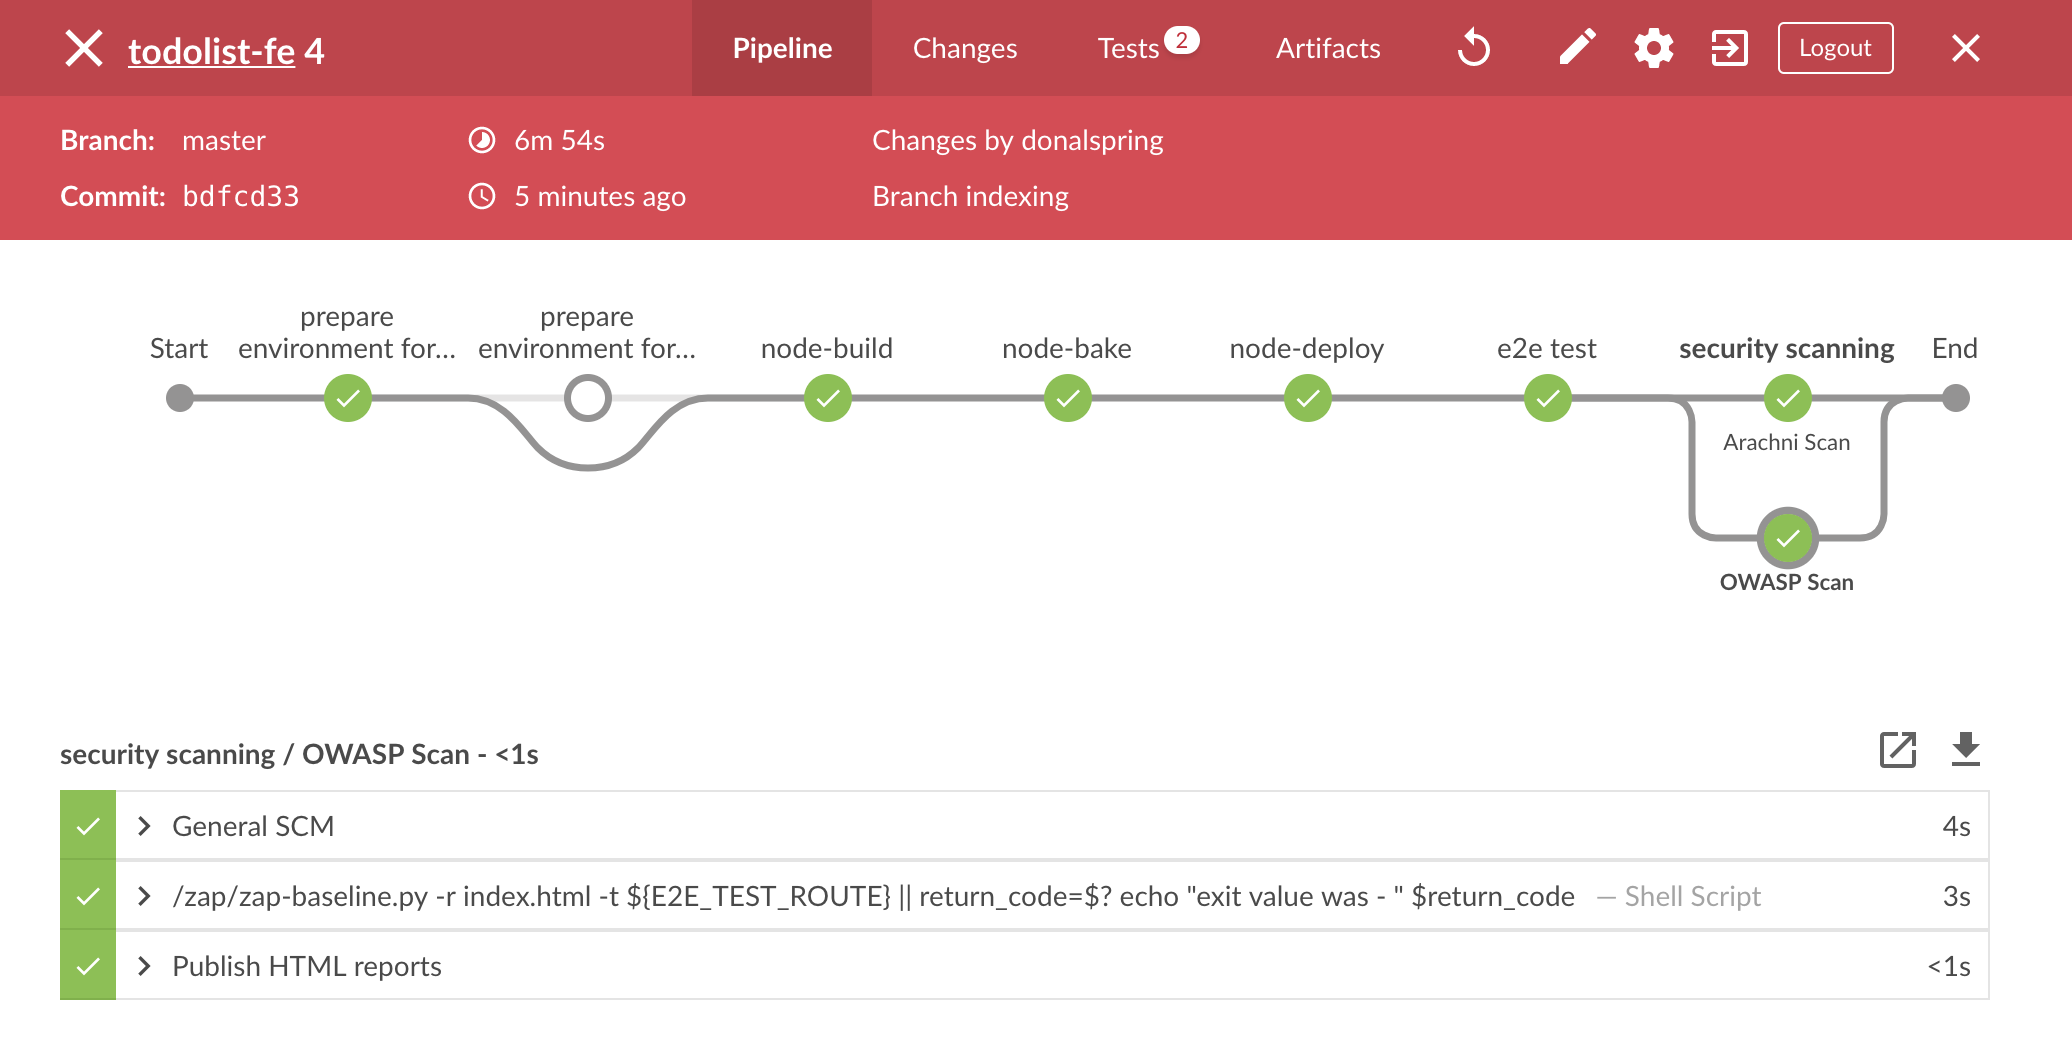
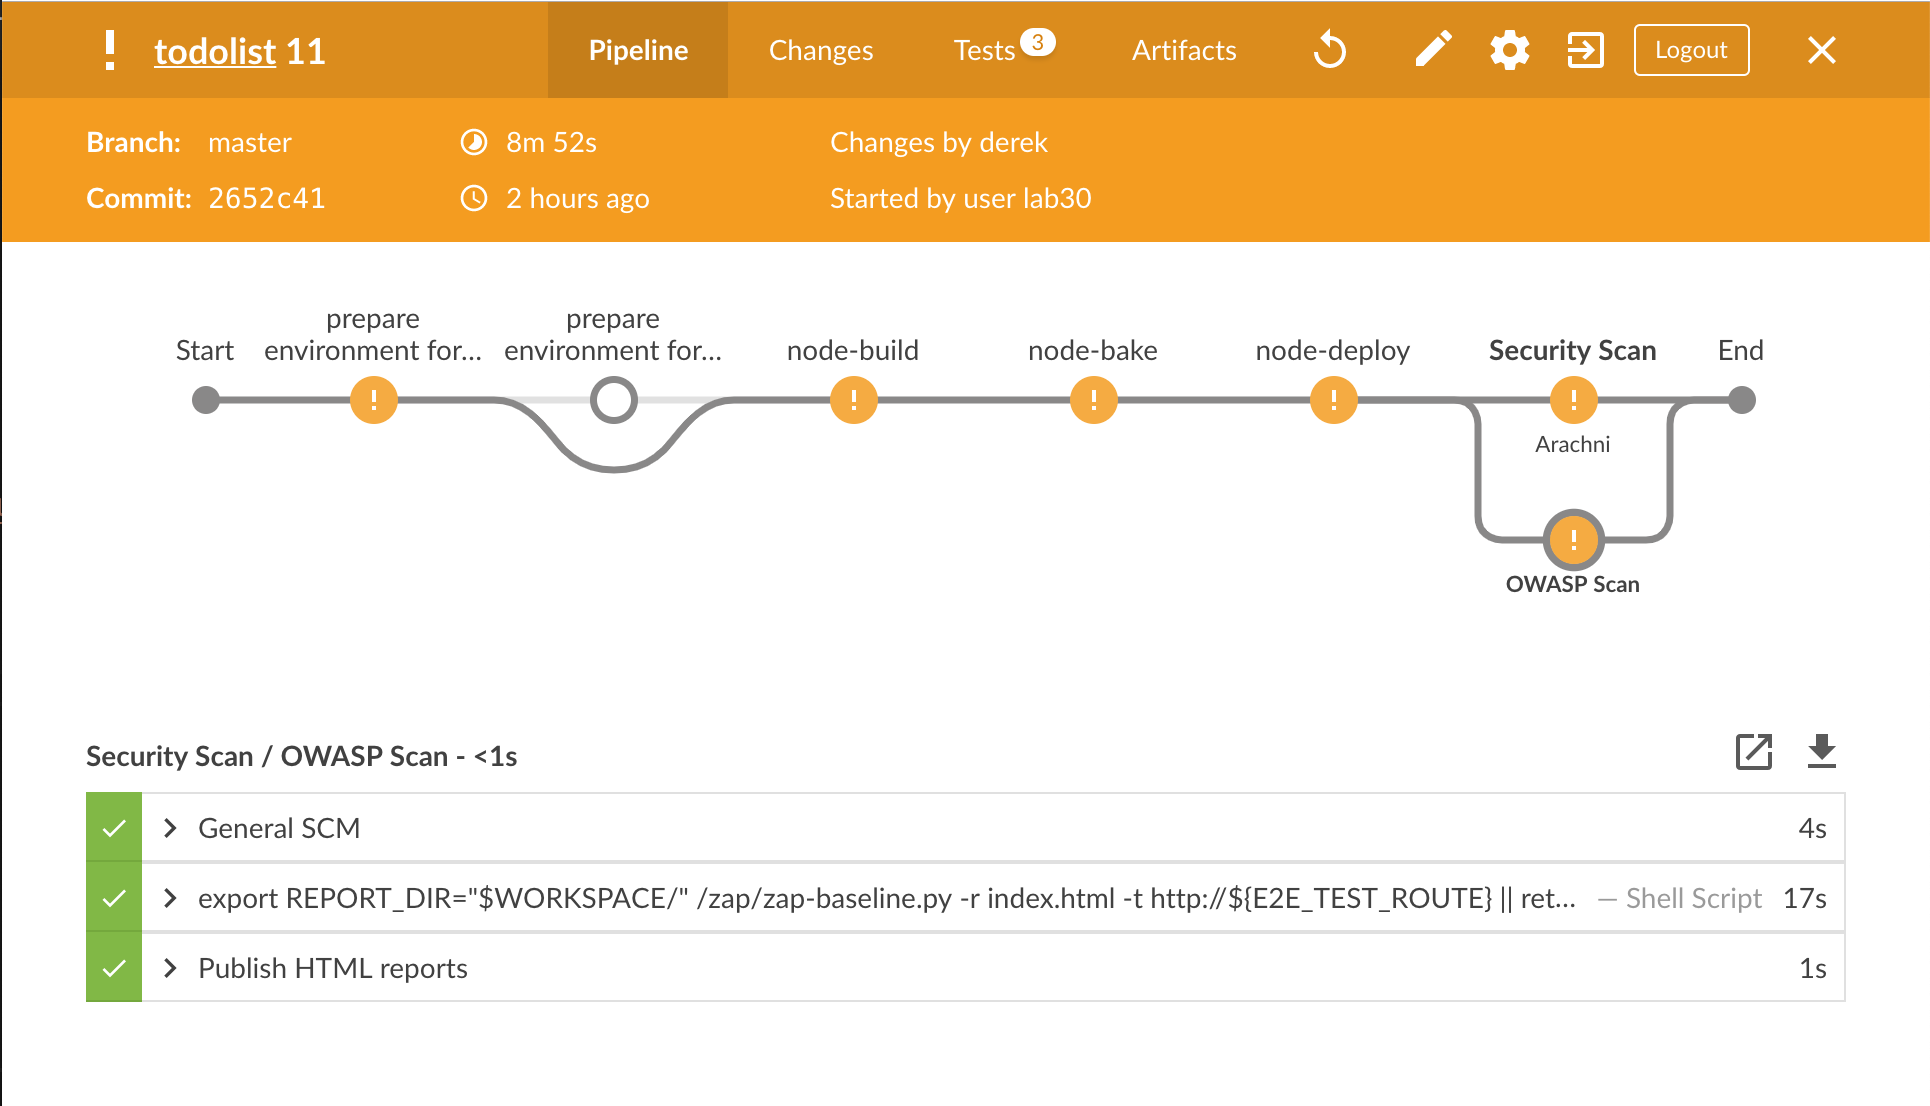
🦊 FIX - exercise 5 to include ZAP and make final part optional 🦊

diff --git a/exercises/5-non-functionals-strike-back/README.md b/exercises/5-non-functionals-strike-back/README.md
@@ -40,7 +40,7 @@ As a learner you will be able to
 > Below is a collection of the new frameworks and tools that will be used in this exercise
 
 1. [eslint](https://eslint.org/) - ESLint is an open source JavaScript linting utility originally created by Nicholas C. Zakas in June 2013. Code linting is a type of static analysis that is frequently used to find problematic patterns or code that doesn’t adhere to certain style guidelines. There are code linters for most programming languages, and compilers sometimes incorporate linting into the compilation process.
-<!-- 1. [Zed Attack Proxy](https://www.owasp.org/index.php/OWASP_Zed_Attack_Proxy_Project) - The OWASP Zed Attack Proxy (ZAP) is one of the world’s most popular free security tools and is actively maintained by hundreds of international volunteers*. It can help you automatically find security vulnerabilities in your web applications while you are developing and testing your applications. Its also a great tool for experienced pentesters to use for manual security testing. -->
+1. [Zed Attack Proxy](https://www.owasp.org/index.php/OWASP_Zed_Attack_Proxy_Project) - The OWASP Zed Attack Proxy (ZAP) is one of the world’s most popular free security tools and is actively maintained by hundreds of international volunteers*. It can help you automatically find security vulnerabilities in your web applications while you are developing and testing your applications. Its also a great tool for experienced pentesters to use for manual security testing.
 2. [Arachni Crawler](http://www.arachni-scanner.com/) - Arachni is a feature-full, modular, high-performance Ruby framework aimed towards helping penetration testers and administrators evaluate the security of modern web applications. It is free, with its source code public and available for review. It is versatile enough to cover a great deal of use cases, ranging from a simple command line scanner utility, to a global high performance grid of scanners, to a Ruby library allowing for scripted audits, to a multi-user multi-scan web collaboration platform. In addition, its simple REST API makes integration a cinch.
 <!-- 1. [stryker](http://stryker-mutator.io/) - Mutation testing! What is it? Bugs, or mutants, are automatically inserted into your production code. Your tests are run for each mutant. If your tests fail then the mutant is killed. If your tests passed, the mutant survived. The higher the percentage of mutants killed, the more effective your tests are. It's really that simple. -->
 
@@ -67,57 +67,35 @@ _____
 ### Part 1 - Add Security scanning to the pipeline
 > _In this exercise, the first of our non-functional testing is explored in the form of some security scanning. We will add the scan to our Jenkinsfile and have them run as a new stage_
 
-1. Open the `todolist` application's `Jenkinsfile` in your cloud ide. The file is stored in the root of the project. Ensure that you using the `master` branch of `todolist`
-```bash
-cd /projects/todolist
-git checkout master
-```
+1. Open the `todolist` application's `Jenkinsfile` in your cloud ide. The file is stored in the root of the project.
 
-2. The file is laid out with a collection of stages that correspond to each part of our build as seen below. We will create a new stage to for the Arachni scan.
+2. The file is laid out with a collection of stages that correspond to each part of our build as seen below. We will create a new parallel stage to execute both our `Arachni` and our `Zap` scan.
 ![stages](../images/exercise5/stages.png)
 
-3. Create a new stage called `Arachni Scan` underneath the `stage("e2e test") { }` section as shown below. The contents of the `e2e test` have been removed for simplicity.
+3. Create a new stage called `Security Scan` underneath the `stage("e2e test") { }` section as shown below. This is a parallel stage which will allow us to define additional `stages() {}` inside of it. We will add two stages in there, one for `Zap` and one for `Arachni`. The contents of the `e2e test` have been removed for simplicity.
 
-<kbd>📝 *Jenkinsfile*</kbd>
+<kbd>📝 *todolist/Jenkinsfile*</kbd>
 ```groovy
         stage("e2e test") {
             // ... stuff in here ....
         }
-        stage('Arachni Scan') {
-        agent {
-            node {
-                label "jenkins-slave-arachni"
+        stage('Security Scan') {
+            parallel {
+                stage('OWASP Zap') {
+
+                }
+                stage('Arachni') {
+
+                }
             }
         }
-        when {
-            expression { GIT_BRANCH ==~ /(.*master|.*develop)/ }
-        }
-        steps {
-            sh '''
-                /arachni/bin/arachni http://${E2E_TEST_ROUTE} --report-save-path=arachni-report.afr
-                /arachni/bin/arachni_reporter arachni-report.afr --reporter=xunit:outfile=report.xml --reporter=html:outfile=web-report.zip
-                unzip web-report.zip -d arachni-web-report
-            '''
-        }
-        post {
-            always {
-                junit 'report.xml'
-                publishHTML target: [
-                    allowMissing: false,
-                    alwaysLinkToLastBuild: false,
-                    keepAll: true,
-                    reportDir: 'arachni-web-report',
-                    reportFiles: 'index.html',
-                    reportName: 'Arachni Web Crawl'
-                    ]
-            }
-        }
-    }
 ```
 
-<!-- 2. Let's start filling out the configuration for the OWASP Zap scan first. We will set the label to our slave created in previous exercise and a `when` condition of the master or develop branch.
+4. Let's start filling out the configuration for the OWASP Zap scan first. We will set the label to our slave created in previous exercise and a `when` condition to only execute the job when on either the master or develop branch.
+
+<kbd>📝 *todolist/Jenkinsfile*</kbd>
 ```groovy
-stage('OWASP Scan') {
+stage('OWASP Zap') {
     agent {
         node {
             label "jenkins-slave-zap"
@@ -129,9 +107,11 @@ stage('OWASP Scan') {
 }
 ```
 
-2.  Add a `step` with a `sh` command to run the tool by passing in the URL of the app we're going to test.
+5.  Add a `step` with a `sh` command to run the tool by passing in the URL of the app we're going to test.
+
+<kbd>📝 *todolist/Jenkinsfile*</kbd>
 ```groovy
-stage('OWASP Scan') {
+stage('OWASP Zap') {
         agent {
             node {
                 label "jenkins-slave-zap"
@@ -142,6 +122,7 @@ stage('OWASP Scan') {
         }
         steps {
             sh '''
+                export REPORT_DIR="$WORKSPACE/"
                 /zap/zap-baseline.py -r index.html -t ${E2E_TEST_ROUTE} || return_code=$?
                 echo "exit value was  - " $return_code
             '''
@@ -149,7 +130,9 @@ stage('OWASP Scan') {
 }
 ```
 
-2.  Finally add the reporting for Jenkins in `post` hook of our Declarative Pipeline. This is to report the findings of the scan in Jenkins as an HTML report.
+6.  Finally add the reporting for Jenkins in `post` hook of our Declarative Pipeline. This is to report the findings of the scan in Jenkins as an HTML report.
+
+<kbd>📝 *todolist/Jenkinsfile*</kbd>
 ```groovy
 stage('OWASP Scan') {
     agent {
@@ -162,6 +145,7 @@ stage('OWASP Scan') {
     }
     steps {
         sh '''
+            export REPORT_DIR="$WORKSPACE/"
             /zap/zap-baseline.py -r index.html -t http://${E2E_TEST_ROUTE} || return_code=$?
             echo "exit value was  - " $return_code
         '''
@@ -173,18 +157,20 @@ stage('OWASP Scan') {
               allowMissing: false,
               alwaysLinkToLastBuild: false,
               keepAll: true,
-              reportDir: '/zap/wrk',
+              reportDir: '',
               reportFiles: 'index.html',
               reportName: 'Zap Branniscan'
             ]
         }
     }
 }
-``` -->
+```
 
-<!-- 2. Let's add our Arachni Scan to the second part of the parallel block. The main difference between these sections is Jenkins will report an XML report too for failing the build accordingly. Below is the snippet for the Arachni scanning. -->
-<!-- ```groovy
-    stage('Arachni Scan') {
+7. Let's add our Arachni Scan to the second part of the parallel block. The main difference between these sections is Jenkins will report an XML report too for failing the build accordingly. Below is the snippet for the Arachni scanning.
+
+<kbd>📝 *todolist/Jenkinsfile*</kbd>
+```groovy
+    stage('Arachni') {
         agent {
             node {
                 label "jenkins-slave-arachni"
@@ -214,9 +200,13 @@ stage('OWASP Scan') {
             }
         }
     }
-``` -->
+```
 
-4. With this config in place, commit your code (from your terminal). Wait for a few minutes until a new build in Jenkins is trigerred:
+8. With this config in place, commit your code (from your terminal). Wait for a few minutes until a new build in Jenkins is trigerred:
+
+```bash
+cd /projects/todolist
+```
 ```bash
 git add .
 ```
@@ -228,7 +218,7 @@ git push
 ```
 
 5. Check out the Blue Ocean Jenkins view for how the new stage is viewed!
-![jenkins-arachni-stage](../images/exercise5/jenkins-arachni-stage.png)
+![jenkins-arachni-stage](../images/exercise5/jenkins-parallel.png)
 
 6. Once the Jobs have completed; navigate to the Jobs status and see the scores. You can find the graphs and test reports on overview of the Job. Explore the results!
 ![report-arachni](../images/exercise5/report-arachni.png)
@@ -299,7 +289,7 @@ NOTE - a good practice for teams is to try and increase the code coverage metric
 </p>
 
 
-### Part 3 - Nightly light performance testing
+### Opional Exercise - Nightly light performance testing
 > _In this part of the exercise, we will execute light performance tasks in our API to collect data about throughput time in hopes if the API ever has some `Sam` quality code checked in, we will spot it_
 
 An arbitrary value for the APIs to respond in has been chosen. It is set in the `todolist/tasks/perf-test.js` file. In this exercise we will get Jenkins to execute the tests and fail based on the score set there!
